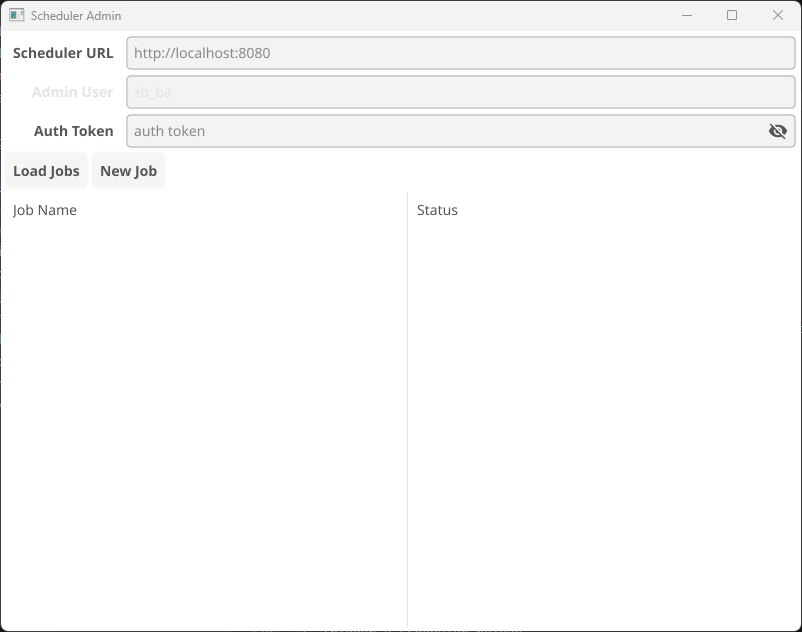
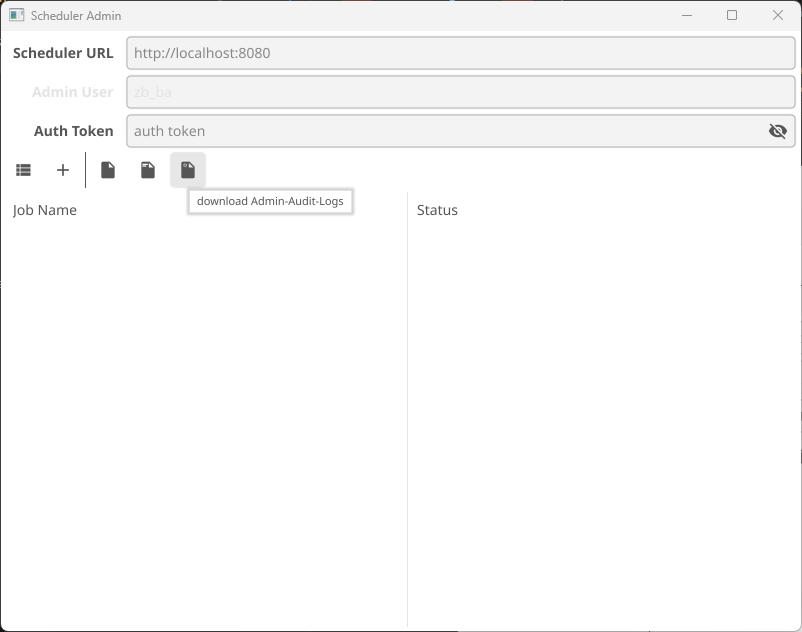
feat: adding admin gui downloadable logs

diff --git a/cmd/scheduler-admin/main.go b/cmd/scheduler-admin/main.go
@@ -30,7 +30,11 @@ import (
 	"fyne.io/fyne/v2/app"
 	"fyne.io/fyne/v2/container"
 	"fyne.io/fyne/v2/dialog"
+	"fyne.io/fyne/v2/theme"
 	"fyne.io/fyne/v2/widget"
+
+	fynetooltip "github.com/dweymouth/fyne-tooltip"
+	ttwidget "github.com/dweymouth/fyne-tooltip/widget"
 )
 
 // ScheduledProgram mirrors the server-side database structure for job
@@ -127,14 +131,21 @@ func main() {
 		}
 	}
 
-	// Buttons
-	loadBtn := widget.NewButton("Load Jobs", func() { ui.loadJobs() })
-	newBtn := widget.NewButton("New Job", func() { ui.showJobEditor(ScheduledProgram{Enabled: true}) })
+	// Toolbar with tooltips using fyne-tooltip library
+	toolbar := widget.NewToolbar(
+		&toolbarTooltipAction{theme.ListIcon(), "load Jobs", func() { ui.loadJobs() }},
+		&toolbarTooltipAction{theme.ContentAddIcon(), "new Job", func() { ui.showJobEditor(ScheduledProgram{Enabled: true}) }},
+		widget.NewToolbarSeparator(),
+		&toolbarTooltipAction{theme.FileIcon(), "download System-Logs", func() { ui.downloadSystemLogs() }},
+		&toolbarTooltipAction{theme.FileTextIcon(), "download Job-Audit-Logs", func() { ui.downloadJobAuditLogs() }},
+		&toolbarTooltipAction{theme.FileApplicationIcon(), "download Admin-Audit-Logs", func() { ui.downloadAdminAuditLogs() }},
+	)
 
-	topContainer := container.NewVBox(connForm, container.NewHBox(loadBtn, newBtn))
+	topContainer := container.NewVBox(connForm, toolbar)
 	content := container.NewBorder(topContainer, nil, nil, nil, ui.JobTable)
 
-	myWindow.SetContent(content)
+	// Wrap content in tooltip layer
+	myWindow.SetContent(fynetooltip.AddWindowToolTipLayer(content, myWindow.Canvas()))
 	myWindow.ShowAndRun()
 }
 
@@ -156,13 +167,11 @@ func getHeloUser() string {
 // available) before making the HTTP request.
 func (ui *AdminUI) loadJobs() {
 	go func() {
-		// Require Windows Hello verification (no-op on non-Windows)
 		verified, err := verifyWindowsHello(ui.Window)
-		if err != nil {
-			dialog.ShowError(fmt.Errorf("Windows Hello failed: %w", err), ui.Window)
-			return
-		}
-		if !verified {
+		if err != nil || !verified {
+			if err != nil {
+				dialog.ShowError(err, ui.Window)
+			}
 			return
 		}
 
@@ -198,8 +207,7 @@ func (ui *AdminUI) loadJobs() {
 }
 
 // showJobEditor opens a modal dialog for creating or editing a scheduled
-// program. Existing programs display a Delete button; new programs show a
-// clean form. On save, the dialog calls saveJob to persist the changes.
+// program.
 func (ui *AdminUI) showJobEditor(p ScheduledProgram) {
 	nameEntry := widget.NewEntry()
 	nameEntry.SetText(p.Name)
@@ -223,7 +231,6 @@ func (ui *AdminUI) showJobEditor(p ScheduledProgram) {
 		widget.NewFormItem("", restartCheck),
 	)
 
-	// Add Delete Button if editing existing job
 	var items []fyne.CanvasObject
 	items = append(items, form)
 	if p.Name != "" {
@@ -241,7 +248,6 @@ func (ui *AdminUI) showJobEditor(p ScheduledProgram) {
 		if !save {
 			return
 		}
-
 		p.Name = nameEntry.Text
 		p.Command = cmdEntry.Text
 		if argsEntry.Text != "" {
@@ -252,14 +258,10 @@ func (ui *AdminUI) showJobEditor(p ScheduledProgram) {
 		p.CronExpr = cronEntry.Text
 		p.Enabled = enabledCheck.Checked
 		p.RestartOnExit = restartCheck.Checked
-
 		ui.saveJob(p)
 	}, ui.Window)
 }
 
-// saveJob sends a POST request to the scheduler admin API with the supplied
-// program configuration. On success it reloads the job list and shows a
-// confirmation dialog.
 func (ui *AdminUI) saveJob(p ScheduledProgram) {
 	data, _ := json.Marshal([]ScheduledProgram{p})
 	client := &http.Client{}
@@ -270,16 +272,14 @@ func (ui *AdminUI) saveJob(p ScheduledProgram) {
 	}
 	req.SetBasicAuth(ui.User.Text, ui.Token.Text)
 	req.Header.Set("Content-Type", "application/json")
-
 	resp, err := client.Do(req)
 	if err != nil {
 		dialog.ShowError(err, ui.Window)
 		return
 	}
 	defer resp.Body.Close()
-
 	if resp.StatusCode == http.StatusOK {
-		dialog.ShowInformation("Success", "Job saved and scheduler reloaded", ui.Window)
+		dialog.ShowInformation("Success", "Job saved", ui.Window)
 		ui.loadJobs()
 	} else {
 		body, _ := io.ReadAll(resp.Body)
@@ -287,8 +287,6 @@ func (ui *AdminUI) saveJob(p ScheduledProgram) {
 	}
 }
 
-// deleteJob sends a DELETE request to the scheduler admin API for the given
-// job name. On success it refreshes the job list and shows a confirmation.
 func (ui *AdminUI) deleteJob(name string) {
 	client := &http.Client{}
 	req, err := http.NewRequest("DELETE", ui.URL.Text+"/admin/delete-job?name="+name, nil)
@@ -297,14 +295,12 @@ func (ui *AdminUI) deleteJob(name string) {
 		return
 	}
 	req.SetBasicAuth(ui.User.Text, ui.Token.Text)
-
 	resp, err := client.Do(req)
 	if err != nil {
 		dialog.ShowError(err, ui.Window)
 		return
 	}
 	defer resp.Body.Close()
-
 	if resp.StatusCode == http.StatusOK {
 		dialog.ShowInformation("Success", "Job deleted", ui.Window)
 		ui.loadJobs()
@@ -312,4 +308,76 @@ func (ui *AdminUI) deleteJob(name string) {
 		body, _ := io.ReadAll(resp.Body)
 		dialog.ShowInformation("Error", string(body), ui.Window)
 	}
+}
+
+func (ui *AdminUI) downloadSystemLogs() {
+	ui.downloadLogs("/admin/logs/system", "system_logs.json", "System logs saved")
+}
+
+func (ui *AdminUI) downloadJobAuditLogs() {
+	ui.downloadLogs("/admin/logs/job-audit", "job_audit_logs.json", "Job audit logs saved")
+}
+
+func (ui *AdminUI) downloadAdminAuditLogs() {
+	ui.downloadLogs("/admin/logs/admin-audit", "admin_audit_logs.json", "Admin audit logs saved")
+}
+
+func (ui *AdminUI) downloadLogs(endpoint, fileName, successMsg string) {
+	go func() {
+		verified, err := verifyWindowsHello(ui.Window)
+		if err != nil || !verified {
+			if err != nil {
+				dialog.ShowError(err, ui.Window)
+			}
+			return
+		}
+		client := &http.Client{}
+		req, err := http.NewRequest("GET", ui.URL.Text+endpoint, nil)
+		if err != nil {
+			dialog.ShowError(err, ui.Window)
+			return
+		}
+		req.SetBasicAuth(ui.User.Text, ui.Token.Text)
+		resp, err := client.Do(req)
+		if err != nil {
+			dialog.ShowError(err, ui.Window)
+			return
+		}
+		defer resp.Body.Close()
+		if resp.StatusCode != http.StatusOK {
+			body, _ := io.ReadAll(resp.Body)
+			dialog.ShowInformation("Error", fmt.Sprintf("Failed to load logs: %s", string(body)), ui.Window)
+			return
+		}
+		data, err := io.ReadAll(resp.Body)
+		if err != nil {
+			dialog.ShowError(err, ui.Window)
+			return
+		}
+		saveDlg := dialog.NewFileSave(func(writer fyne.URIWriteCloser, err error) {
+			if err != nil || writer == nil {
+				return
+			}
+			defer writer.Close()
+			_, _ = writer.Write(data)
+			dialog.ShowInformation("Success", successMsg, ui.Window)
+		}, ui.Window)
+		saveDlg.SetFileName(fileName)
+		saveDlg.Show()
+	}()
+}
+
+// toolbarTooltipAction implements widget.ToolbarItem and creates a button
+// with a tooltip for use in a Fyne toolbar using the fyne-tooltip library.
+type toolbarTooltipAction struct {
+	icon    fyne.Resource
+	tooltip string
+	action  func()
+}
+
+func (t *toolbarTooltipAction) ToolbarObject() fyne.CanvasObject {
+	b := ttwidget.NewButtonWithIcon("", t.icon, t.action)
+	b.Importance = widget.LowImportance
+	b.SetToolTip(t.tooltip)
+	return b
 }